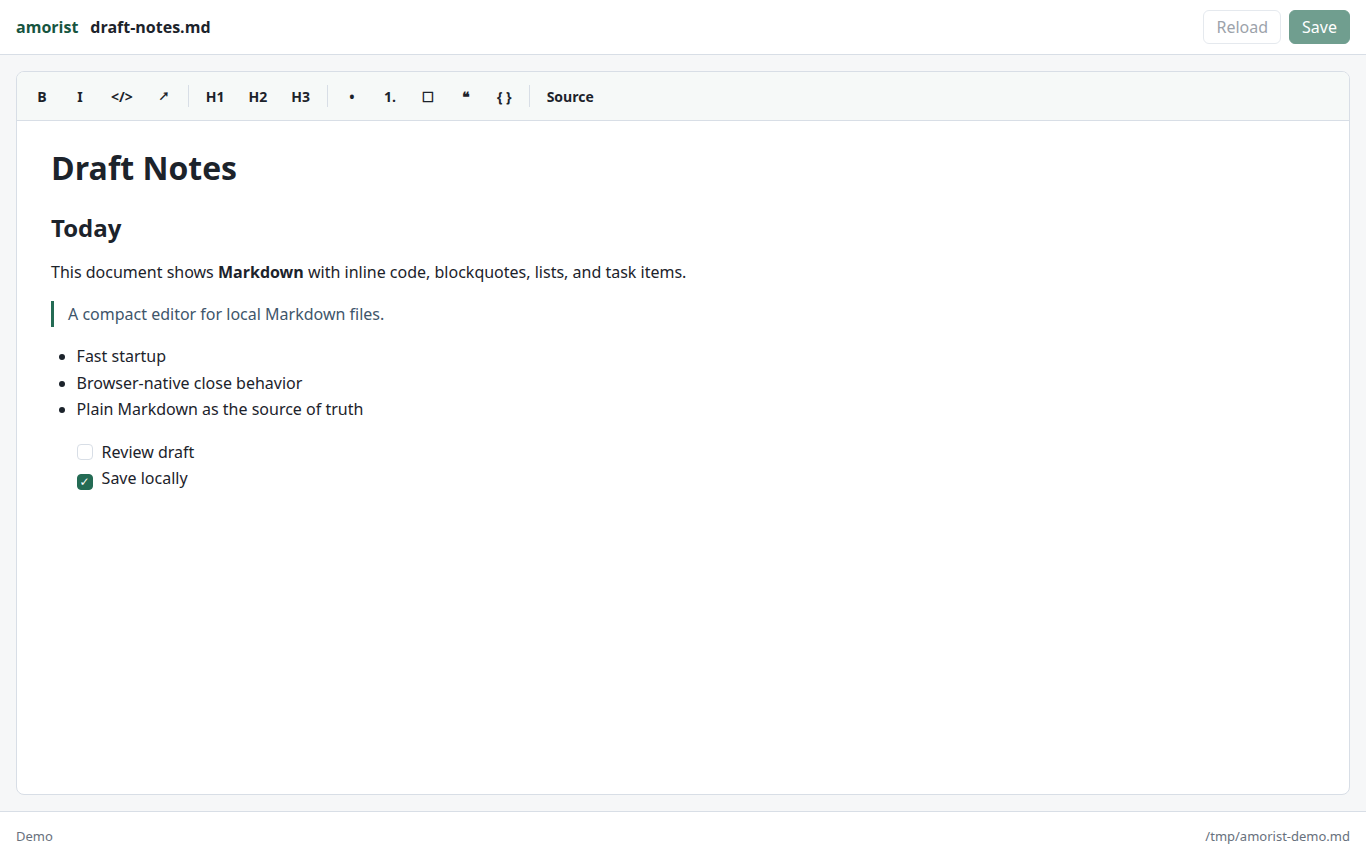
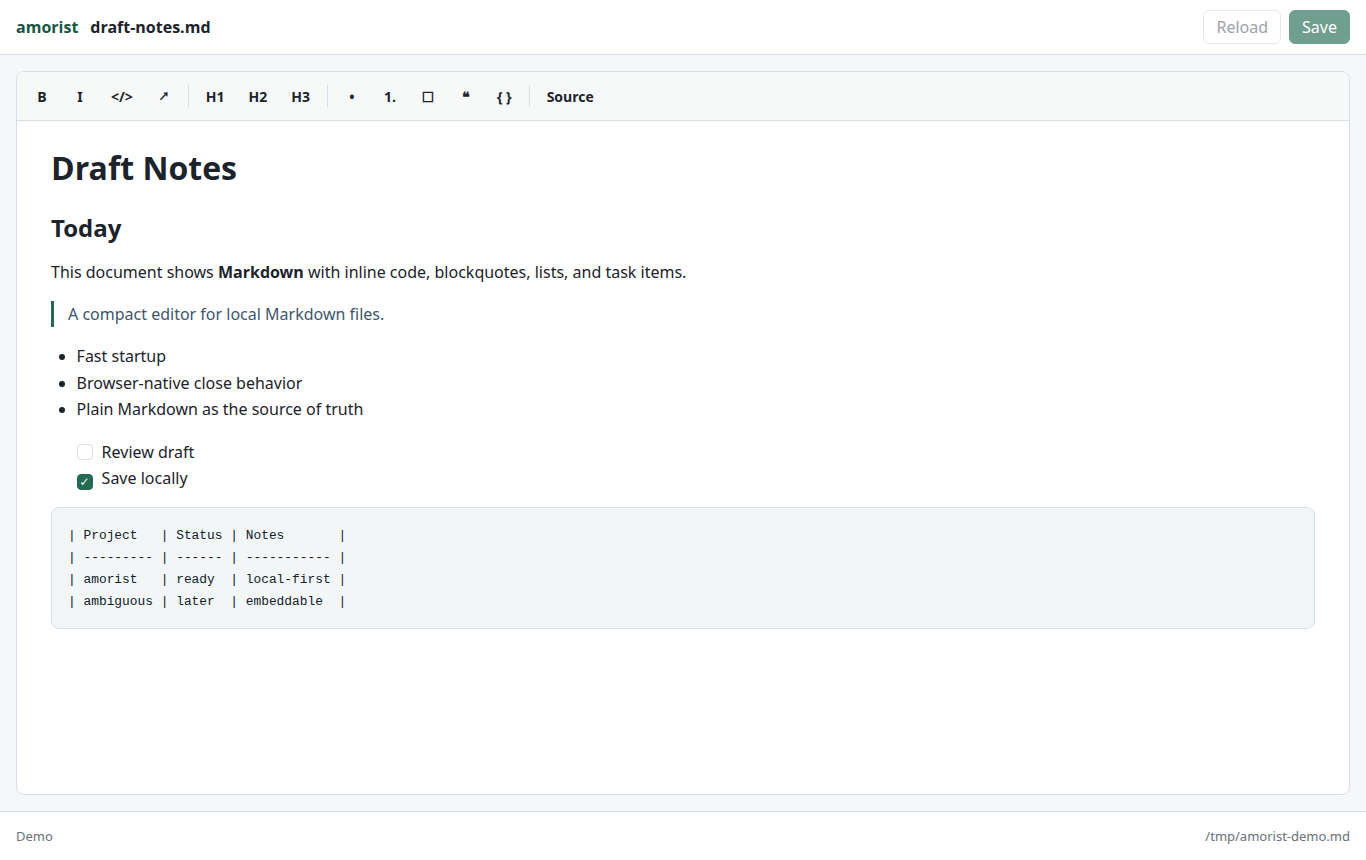
Render markdown tables as aligned text blocks

diff --git a/web/editor/amorist-editor.js b/web/editor/amorist-editor.js
@@ -292,6 +292,17 @@
         continue;
       }
 
+      if (isTableStart(lines, index)) {
+        const tableLines = [lines[index], lines[index + 1]];
+        index += 2;
+        while (index < lines.length && looksLikeTableRow(lines[index])) {
+          tableLines.push(lines[index]);
+          index += 1;
+        }
+        blocks.push({ type: "table", text: formatMarkdownTable(tableLines.join("\n")) });
+        continue;
+      }
+
       const heading = line.match(/^(#{1,3})\s+(.+)$/);
       if (heading) {
         blocks.push({ type: "heading", level: heading[1].length, text: heading[2] });
@@ -377,6 +388,8 @@
         return `<blockquote>${renderInline(block.text)}</blockquote>`;
       case "code":
         return `<pre><code>${escapeHtml(block.text)}</code></pre>`;
+      case "table":
+        return `<pre class="amorist-markdown-table" data-block-type="table"><code>${escapeHtml(block.text)}</code></pre>`;
       case "taskList":
         return `<ul class="amorist-task-list">${block.items.map((item) =>
           `<li class="amorist-task-item" data-checked="${item.checked}"><span class="amorist-task-checkbox" contenteditable="false"></span><span class="amorist-task-content">${renderInline(item.text)}</span></li>`,
@@ -429,6 +442,10 @@
       return;
     }
     if (tag === "PRE") {
+      if (element.dataset.blockType === "table" || element.classList.contains("amorist-markdown-table")) {
+        lines.push(formatMarkdownTable(element.textContent));
+        return;
+      }
       lines.push(`\`\`\`\n${element.textContent.replace(/\n$/, "")}\n\`\`\``);
       return;
     }
@@ -493,6 +510,81 @@
 
   function normalize(markdown) {
     return String(markdown).replace(/\r\n/g, "\n").replace(/\r/g, "\n");
+  }
+
+  function isTableStart(lines, index) {
+    return looksLikeTableRow(lines[index]) && isTableSeparator(lines[index + 1] || "");
+  }
+
+  function looksLikeTableRow(line) {
+    return typeof line === "string" && line.includes("|") && splitTableRow(line).length >= 2;
+  }
+
+  function isTableSeparator(line) {
+    const cells = splitTableRow(line);
+    return cells.length >= 2 && cells.every((cell) => /^:?-{3,}:?$/.test(cell.trim()));
+  }
+
+  function splitTableRow(line) {
+    let value = String(line || "").trim();
+    if (value.startsWith("|")) value = value.slice(1);
+    if (value.endsWith("|")) value = value.slice(0, -1);
+    return value.split("|").map((cell) => cell.trim());
+  }
+
+  function formatMarkdownTable(markdown) {
+    const sourceRows = normalize(markdown)
+      .split("\n")
+      .filter((line) => line.trim())
+      .map(splitTableRow);
+    if (sourceRows.length < 2) return normalize(markdown).trim();
+
+    const columnCount = Math.max(...sourceRows.map((row) => row.length));
+    const rows = sourceRows.map((row) => {
+      const cells = row.slice(0, columnCount);
+      while (cells.length < columnCount) cells.push("");
+      return cells;
+    });
+    const alignments = rows[1].map(tableAlignment);
+    const contentRows = [rows[0], ...rows.slice(2)];
+    const widths = Array.from({ length: columnCount }, (_, index) => {
+      const contentWidth = Math.max(...contentRows.map((row) => tableCellWidth(row[index])));
+      return Math.max(3, contentWidth);
+    });
+
+    const header = formatTableRow(rows[0], widths);
+    const separator = formatTableSeparator(widths, alignments);
+    const body = rows.slice(2).map((row) => formatTableRow(row, widths));
+    return [header, separator, ...body].join("\n");
+  }
+
+  function tableAlignment(cell) {
+    const trimmed = String(cell || "").trim();
+    if (trimmed.startsWith(":") && trimmed.endsWith(":")) return "center";
+    if (trimmed.endsWith(":")) return "right";
+    return "left";
+  }
+
+  function formatTableRow(row, widths) {
+    return `| ${row.map((cell, index) => padTableCell(cell, widths[index])).join(" | ")} |`;
+  }
+
+  function formatTableSeparator(widths, alignments) {
+    return `| ${widths.map((width, index) => {
+      const dashes = "-".repeat(width);
+      if (alignments[index] === "center") return `:${dashes.slice(1, -1)}:`;
+      if (alignments[index] === "right") return `${dashes.slice(0, -1)}:`;
+      return dashes;
+    }).join(" | ")} |`;
+  }
+
+  function padTableCell(cell, width) {
+    const value = String(cell || "").trim();
+    return value + " ".repeat(Math.max(0, width - tableCellWidth(value)));
+  }
+
+  function tableCellWidth(value) {
+    return String(value || "").length;
   }
 
   function escapeHtml(value) {

diff --git a/web/editor/amorist-editor.css b/web/editor/amorist-editor.css
@@ -136,6 +136,19 @@
   padding: 0;
 }
 
+.amorist-editor-surface .amorist-markdown-table {
+  background: #f3f6f7;
+  border: 1px solid var(--border, #d8dee6);
+  color: #10202c;
+  font-size: 14px;
+  line-height: 1.55;
+  white-space: pre;
+}
+
+.amorist-editor-surface .amorist-markdown-table code {
+  color: inherit;
+}
+
 .amorist-editor-surface ul,
 .amorist-editor-surface ol {
   padding-left: 1.6em;

diff --git a/web/app.js b/web/app.js
@@ -35,6 +35,11 @@ This document shows **Markdown** with inline code, blockquotes, lists, and task 
 
 - [ ] Review draft
 - [x] Save locally
+
+| Project   | Status | Notes       |
+|-----------|--------|-------------|
+| amorist   | ready  | local-first |
+| ambiguous | later  | embeddable  |
 `;
 
   document.addEventListener("DOMContentLoaded", () => {

diff --git a/README.md b/README.md
@@ -19,7 +19,7 @@ The command starts a private server on `127.0.0.1`, opens the editor in your bro
 - Keeps existing `LF` or `CRLF` line endings when saving.
 - Shows a browser-native warning before closing with unsaved changes.
 - Stops the local server automatically after the browser tab is closed.
-- Supports headings, emphasis, links, code, lists, blockquotes, fenced code blocks, and task lists.
+- Supports headings, emphasis, links, code, lists, blockquotes, fenced code blocks, task lists, and readable Markdown tables.
 - Rejects files larger than 10 MB before reading.
 
 Markdown tables are rendered as plain Markdown in this version.
@@ -86,7 +86,7 @@ The editor lives in `web/editor/amorist-editor.js` and `web/editor/amorist-edito
 </script>
 ```
 
-The editor intentionally supports a small Markdown subset: headings, paragraphs, emphasis, inline code, links, blockquotes, bullet lists, numbered lists, task lists, and fenced code blocks. It serializes normalized Markdown; use source mode when exact text control matters.
+The editor intentionally supports a small Markdown subset: headings, paragraphs, emphasis, inline code, links, blockquotes, bullet lists, numbered lists, task lists, fenced code blocks, and pipe tables. Tables are shown as editable monospace Markdown blocks and are automatically aligned on serialization; use source mode when exact text control matters.
 
 ## Manual QA
 